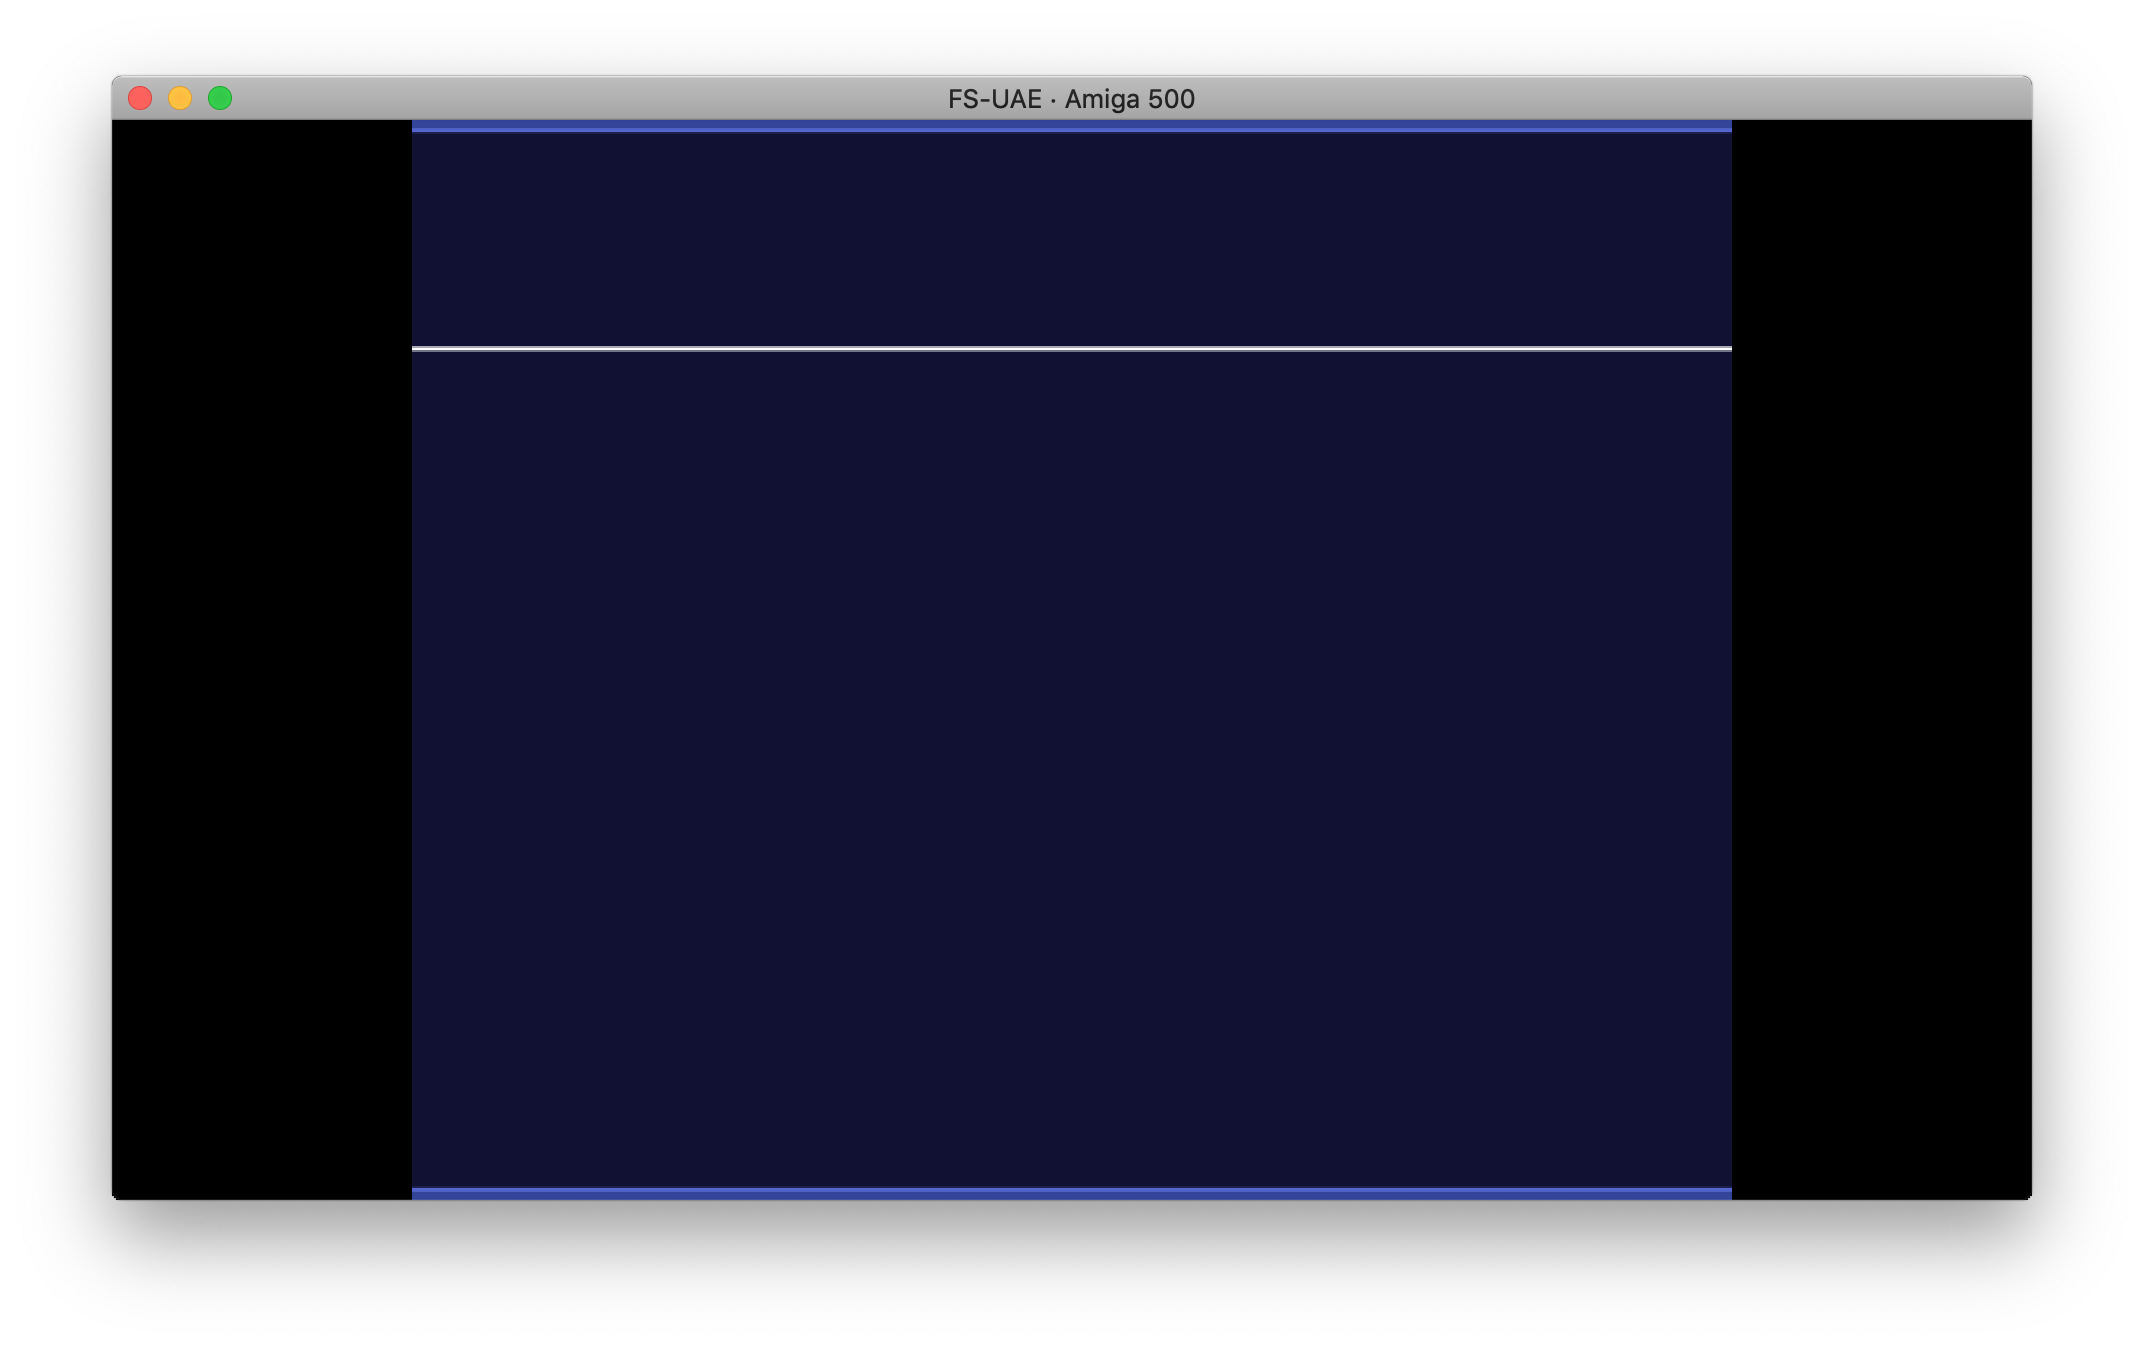
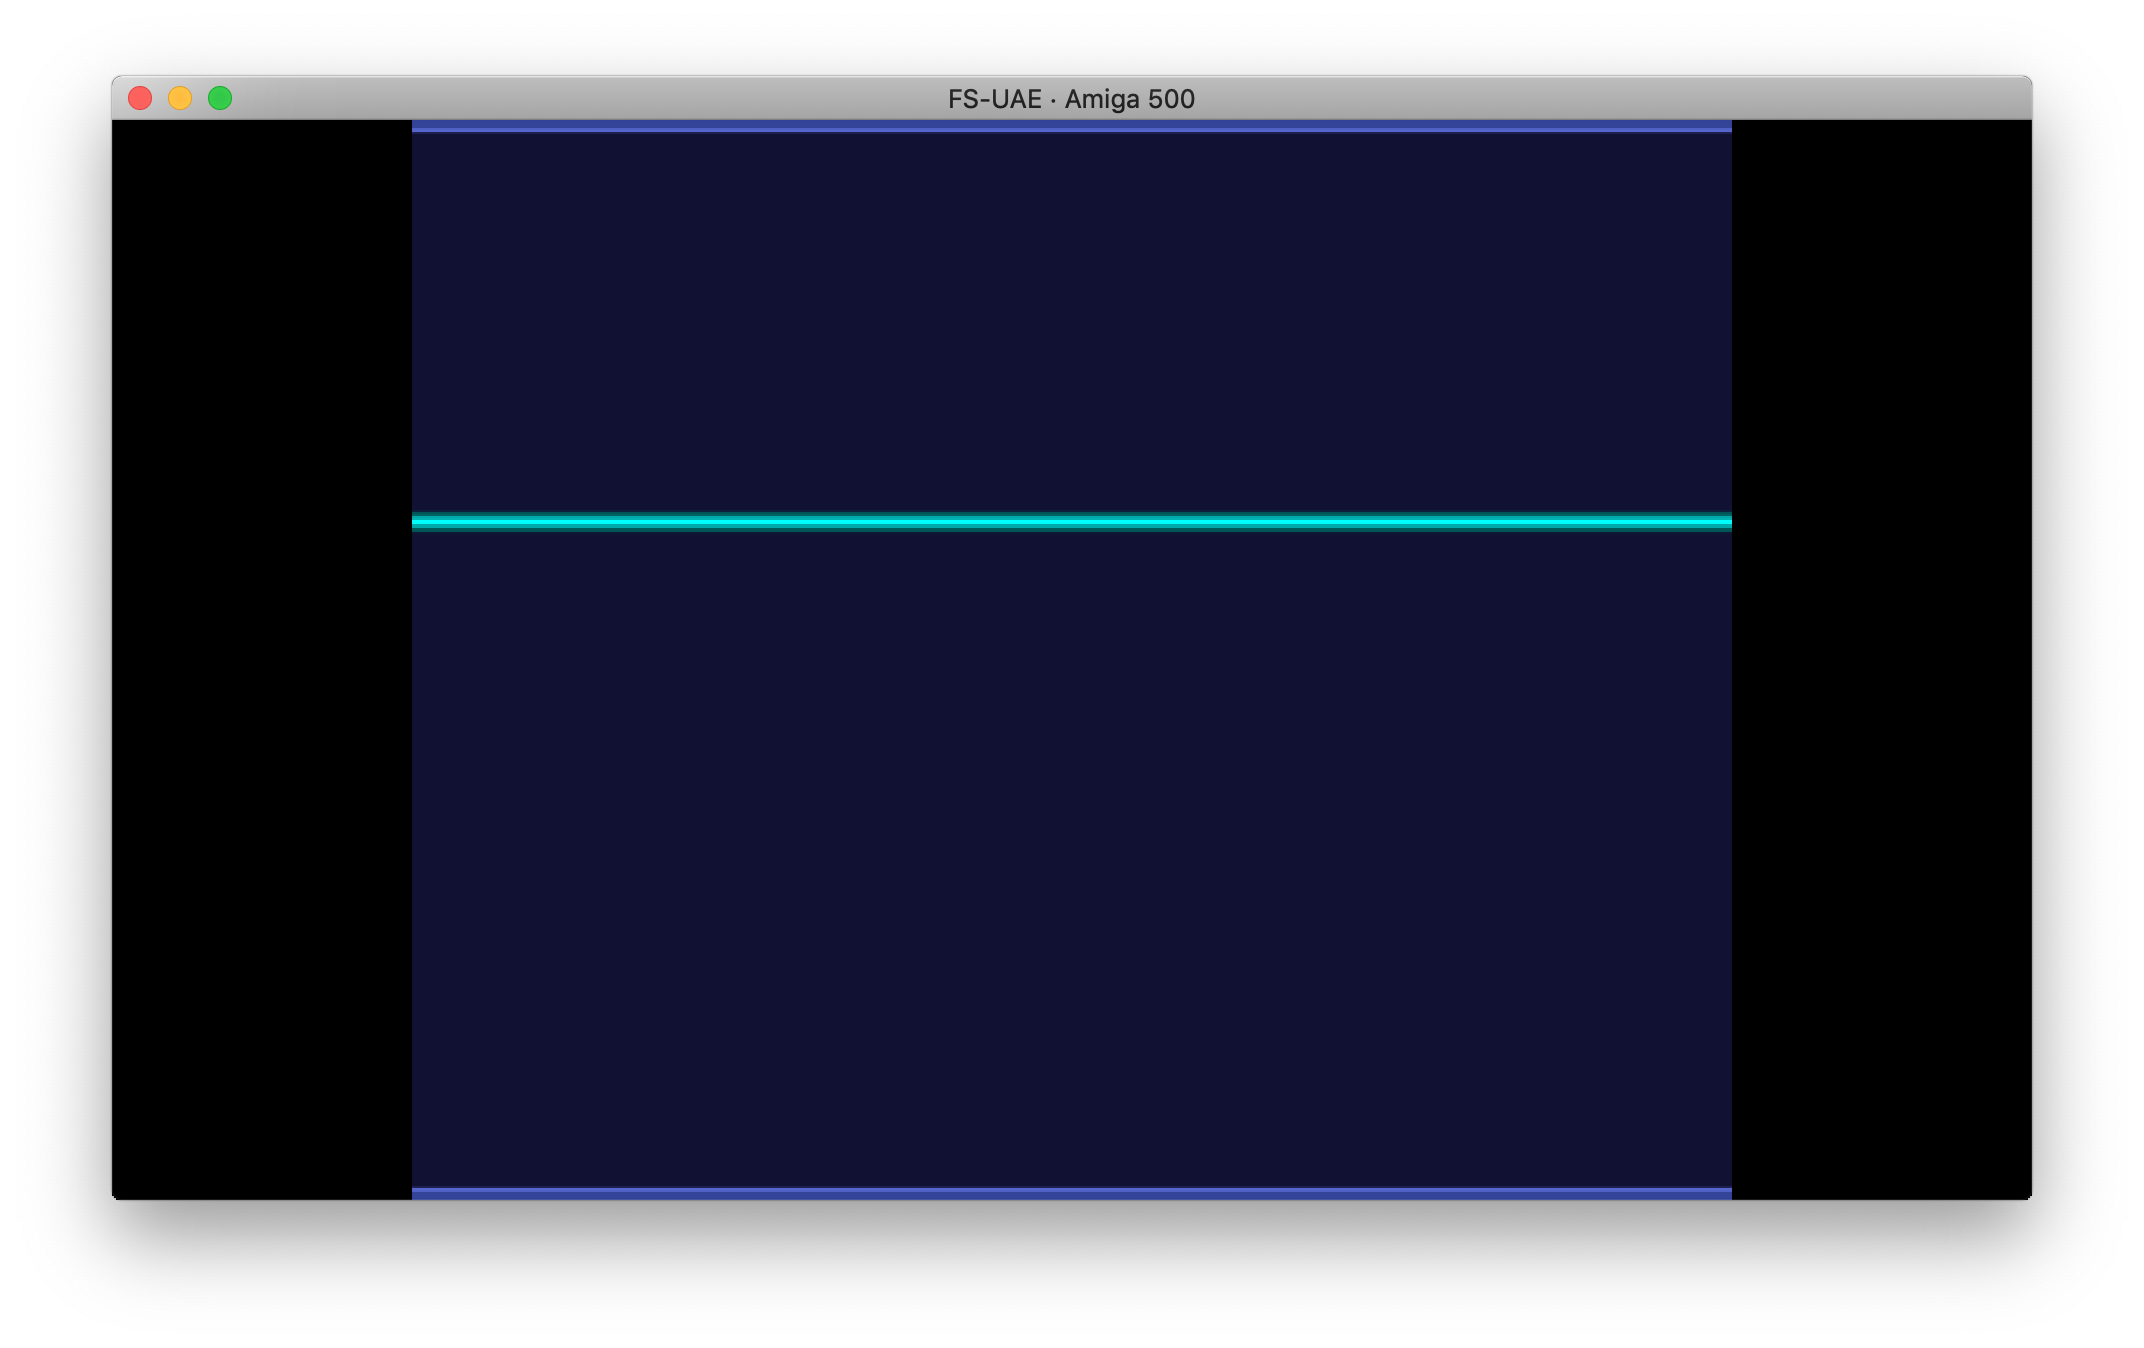
Add thickness & gradient to copper bar

Changed region(s): [[0.1875, 0.3739, 0.8125, 0.405], [0.1875, 0.2493, 0.8125, 0.2804], [0.0312, 0.0623, 0.0625, 0.0935]]

diff --git a/README.md b/README.md
@@ -6,7 +6,7 @@ Work in progress, trying to understand these examples & guides:
 - <https://www.youtube.com/watch?v=p83QUZ1-P10&list=PLc3ltHgmiidpK-s0eP5hTKJnjdTHz0_bW>
 - [Amiga Hardware Reference Manual](http://amigadev.elowar.com/read/ADCD_2.1/Hardware_Manual_guide/node0000.html)
 
-At the moment, the code in `src/learning.asm` displays a moving white rasterline using a copper list:
+At the moment, the code in `src/learning.asm` displays a moving horizontal copper bar using a copper list:
 
 ![Screenshot](doc/2018-11-29_Screenshot.png)
 
